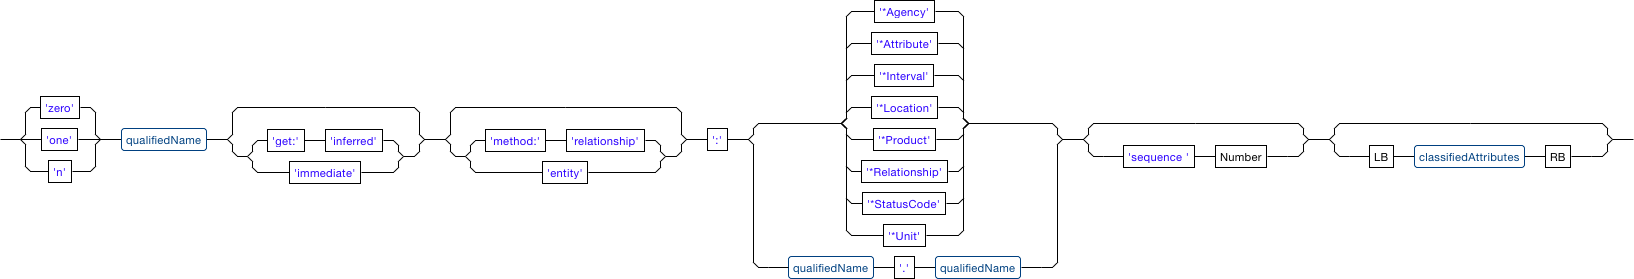
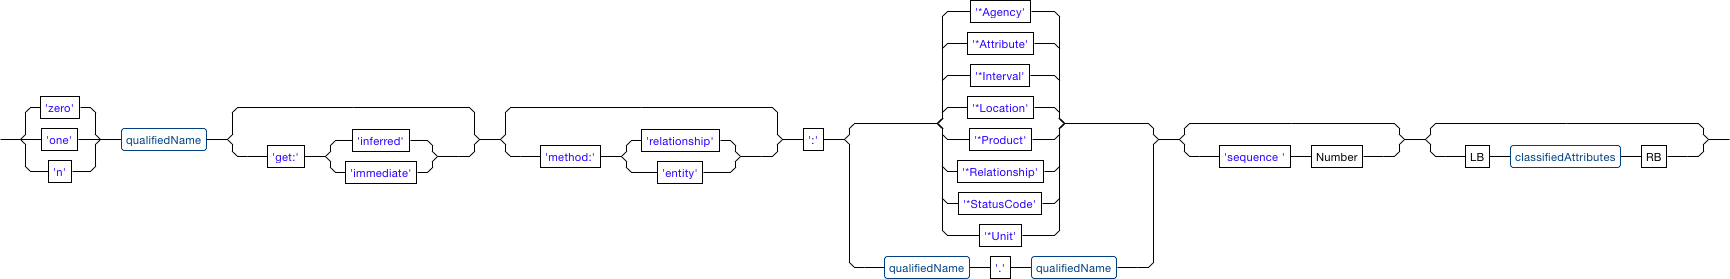
fix constraint syntax

diff --git a/dsl/doc/Workspace.g4.html b/dsl/doc/Workspace.g4.html
@@ -962,7 +962,7 @@ This file is part of Ultrastructure.
   <div class="ebnf">
   <h4>Text notation:</h4>
   <div>
-    <span class="rule">constraint</span> :  <a href="#cardinality" class="rule">cardinality</a> <span class="operator">=</span> <span class="operator">(</span><span class="literal">'zero'</span> <span class="operator">|</span> <span class="literal">'one'</span> <span class="operator">|</span> <span class="literal">'n'</span><span class="operator">)</span> <a href="#childRelationship" class="rule">childRelationship</a> <span class="operator">=</span> <a href="#qualifiedName" class="rule">qualifiedName</a> <span class="operator">(</span><span class="literal">'get:'</span> <a href="#inferredGet" class="rule">inferredGet</a> <span class="operator">=</span> <span class="literal">'inferred'</span> <span class="operator">|</span> <span class="literal">'immediate'</span><span class="operator">)</span><span class="operator">?</span> <span class="operator">(</span><span class="literal">'method:'</span> <a href="#methodNaming" class="rule">methodNaming</a> <span class="operator">=</span> <span class="literal">'relationship'</span> <span class="operator">|</span> <span class="literal">'entity'</span><span class="operator">)</span><span class="operator">?</span> <span class="literal">':'</span> <span class="operator">(</span><a href="#anyType" class="rule">anyType</a> <span class="operator">=</span> <span class="operator">(</span><span class="literal">'*Agency'</span> <span class="operator">|</span> <span class="literal">'*Attribute'</span> <span class="operator">|</span> <span class="literal">'*Interval'</span> <span class="operator">|</span> <span class="literal">'*Location'</span> <span class="operator">|</span> <span class="literal">'*Product'</span> <span class="operator">|</span> <span class="literal">'*Relationship'</span> <span class="operator">|</span> <span class="literal">'*StatusCode'</span> <span class="operator">|</span> <span class="literal">'*Unit'</span><span class="operator">)</span> <span class="operator">|</span> <span class="operator">(</span><a href="#authorizedRelationship" class="rule">authorizedRelationship</a> <span class="operator">=</span> <a href="#qualifiedName" class="rule">qualifiedName</a> <span class="literal">'.'</span> <a href="#authorizedParent" class="rule">authorizedParent</a> <span class="operator">=</span> <a href="#qualifiedName" class="rule">qualifiedName</a><span class="operator">)</span><span class="operator">)</span> <span class="operator">(</span><span class="literal">'sequence '</span> <a href="#sequenceNumber" class="rule">sequenceNumber</a> <span class="operator">=</span> <a href="#Number" class="token">Number</a><span class="operator">)</span><span class="operator">?</span> <span class="operator">(</span><a href="#LB" class="token">LB</a> <a href="#classifiedAttributes" class="rule">classifiedAttributes</a> <a href="#RB" class="token">RB</a><span class="operator">)</span><span class="operator">?</span> ;
+    <span class="rule">constraint</span> :  <a href="#cardinality" class="rule">cardinality</a> <span class="operator">=</span> <span class="operator">(</span><span class="literal">'zero'</span> <span class="operator">|</span> <span class="literal">'one'</span> <span class="operator">|</span> <span class="literal">'n'</span><span class="operator">)</span> <a href="#childRelationship" class="rule">childRelationship</a> <span class="operator">=</span> <a href="#qualifiedName" class="rule">qualifiedName</a> <span class="operator">(</span><span class="literal">'get:'</span> <a href="#inferredGet" class="rule">inferredGet</a> <span class="operator">=</span> <span class="operator">(</span><span class="literal">'inferred'</span> <span class="operator">|</span> <span class="literal">'immediate'</span><span class="operator">)</span><span class="operator">)</span><span class="operator">?</span> <span class="operator">(</span><span class="literal">'method:'</span> <a href="#methodNaming" class="rule">methodNaming</a> <span class="operator">=</span> <span class="operator">(</span><span class="literal">'relationship'</span> <span class="operator">|</span> <span class="literal">'entity'</span><span class="operator">)</span><span class="operator">)</span><span class="operator">?</span> <span class="literal">':'</span> <span class="operator">(</span><a href="#anyType" class="rule">anyType</a> <span class="operator">=</span> <span class="operator">(</span><span class="literal">'*Agency'</span> <span class="operator">|</span> <span class="literal">'*Attribute'</span> <span class="operator">|</span> <span class="literal">'*Interval'</span> <span class="operator">|</span> <span class="literal">'*Location'</span> <span class="operator">|</span> <span class="literal">'*Product'</span> <span class="operator">|</span> <span class="literal">'*Relationship'</span> <span class="operator">|</span> <span class="literal">'*StatusCode'</span> <span class="operator">|</span> <span class="literal">'*Unit'</span><span class="operator">)</span> <span class="operator">|</span> <span class="operator">(</span><a href="#authorizedRelationship" class="rule">authorizedRelationship</a> <span class="operator">=</span> <a href="#qualifiedName" class="rule">qualifiedName</a> <span class="literal">'.'</span> <a href="#authorizedParent" class="rule">authorizedParent</a> <span class="operator">=</span> <a href="#qualifiedName" class="rule">qualifiedName</a><span class="operator">)</span><span class="operator">)</span> <span class="operator">(</span><span class="literal">'sequence '</span> <a href="#sequenceNumber" class="rule">sequenceNumber</a> <span class="operator">=</span> <a href="#Number" class="token">Number</a><span class="operator">)</span><span class="operator">?</span> <span class="operator">(</span><a href="#LB" class="token">LB</a> <a href="#classifiedAttributes" class="rule">classifiedAttributes</a> <a href="#RB" class="token">RB</a><span class="operator">)</span><span class="operator">?</span> ;
   </div>
   </div>
   <div class="railroad">
